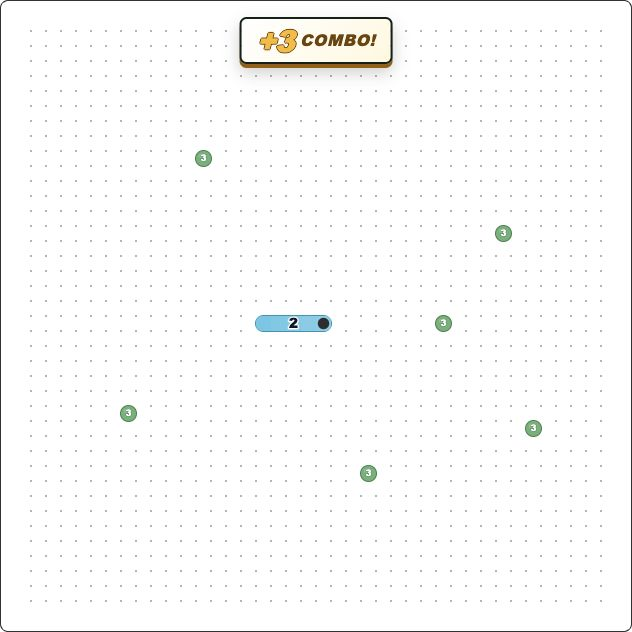
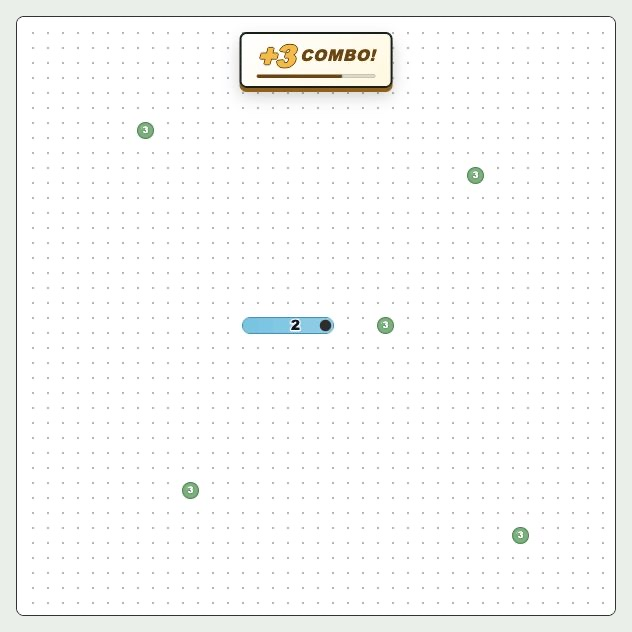
Integrate countdown into combo callout

diff --git a/client/web/tests/e2e/specs/planned-websocket-drain.spec.js b/client/web/tests/e2e/specs/planned-websocket-drain.spec.js
@@ -2066,16 +2066,33 @@ test('Boost fuel instrument keeps the Snaketron hierarchy across charge states',
   }
 });
 
-test('Combo callout stays hidden between chains and re-pops for every pickup', async ({ page }) => {
+test('Combo callout meter drains and re-pops for every pickup', async ({ page }) => {
   await page.setViewportSize({ width: 900, height: 900 });
   const socketIndex = await establishActiveGame(page, comboSnapshot(10, 5, 0, 0));
   const callout = page.getByTestId('combo-callout');
   const burst = page.getByTestId('combo-callout-burst');
+  const meter = page.getByTestId('combo-callout-meter');
+  const meterFill = page.getByTestId('combo-callout-meter-fill');
   const announcement = page.getByTestId('combo-callout-announcement');
+  const readMeterGeometry = () => meter.evaluate((track) => {
+    const fill = track.querySelector('[data-testid="combo-callout-meter-fill"]');
+    if (!fill) throw new Error('Combo meter fill is missing');
+    const trackRect = track.getBoundingClientRect();
+    const fillRect = fill.getBoundingClientRect();
+    return {
+      modelRatio: Number(fill.getAttribute('data-fill-ratio')),
+      renderedRatio: fillRect.width / trackRect.width,
+      leftDelta: Math.abs(fillRect.left - trackRect.left),
+      rightGap: trackRect.right - fillRect.right,
+      trackWidth: trackRect.width,
+    };
+  });
 
   await expect(callout).toHaveCount(1);
   await expect(callout).toHaveAttribute('data-active', 'false');
   await expect(burst).toHaveCount(0);
+  await expect(meter).toHaveCount(0);
+  await expect(meterFill).toHaveCount(0);
 
   await emitServerMessage(
     page,
@@ -2086,13 +2103,35 @@ test('Combo callout stays hidden between chains and re-pops for every pickup', a
   await expect(burst).toHaveText(/\+2\s*Combo!/i);
   await expect(burst).toHaveAttribute('data-animation-key', '42:1');
   await expect(announcement).toHaveText('Combo active; next food is worth 2 points');
+  await expect(meter).toBeVisible();
+  await expect(meterFill).toHaveCSS('transform-origin', /^0px /);
+  const fullMeter = await readMeterGeometry();
+  expect(fullMeter.modelRatio).toBeGreaterThan(0);
+  expect(Math.abs(fullMeter.renderedRatio - fullMeter.modelRatio)).toBeLessThan(0.03);
+  expect(fullMeter.leftDelta).toBeLessThanOrEqual(1);
   const buildingBurst = await burst.elementHandle();
   if (!buildingBurst) throw new Error('building Combo burst is missing');
+
+  // Drive the authoritative timer directly instead of sleeping against the
+  // production one-second window. The right edge retreats while the left edge
+  // stays anchored, making this deterministic even on a busy CI runner.
+  await emitServerMessage(
+    page,
+    socketIndex,
+    comboSnapshot(12, 7, 1, COMBO_CALLOUT_TEST_WINDOW_MS / 2),
+  );
+  await expect.poll(async () => {
+    const current = await readMeterGeometry();
+    return current.modelRatio < fullMeter.modelRatio - 0.25
+      && Math.abs(current.renderedRatio - current.modelRatio) < 0.03
+      && current.leftDelta <= 1
+      && current.rightGap > current.trackWidth * 0.2;
+  }).toBe(true);
 
   await emitServerMessage(
     page,
     socketIndex,
-    comboSnapshot(12, 7, 2, COMBO_CALLOUT_TEST_WINDOW_MS),
+    comboSnapshot(13, 8, 2, COMBO_CALLOUT_TEST_WINDOW_MS),
   );
   await expect(burst).toHaveText(/\+3\s*Combo!/i);
   await expect(burst).toHaveAttribute('data-animation-key', '42:2');
@@ -2109,13 +2148,16 @@ test('Combo callout stays hidden between chains and re-pops for every pickup', a
   await emitServerMessage(
     page,
     socketIndex,
-    comboSnapshot(13, 8, 3, COMBO_CALLOUT_TEST_WINDOW_MS),
+    comboSnapshot(14, 9, 3, COMBO_CALLOUT_TEST_WINDOW_MS),
   );
   await expect(burst).toHaveText(/\+3\s*Combo!/i);
   await expect(burst).toHaveAttribute('data-animation-key', '42:3');
   expect(await firstMaxBurst.evaluate((element) => element.isConnected)).toBe(false);
 
-  await emitServerMessage(page, socketIndex, comboSnapshot(14, 9, 0, 0));
+  await page.emulateMedia({ reducedMotion: 'reduce' });
+  await expect(meter).toBeHidden();
+
+  await emitServerMessage(page, socketIndex, comboSnapshot(15, 10, 0, 0));
   await expect(callout).toHaveAttribute('data-active', 'false');
   await expect(burst).toHaveCount(0);
   await expect(announcement).toHaveText('');

diff --git a/client/web/tests/unit/comboHud.test.ts b/client/web/tests/unit/comboHud.test.ts
@@ -19,11 +19,16 @@ test('combo callout announces +2 after the first food', () => {
   const finalSlice = buildComboHudView(config, snake(1, 1));
 
   assert.equal(full.active, true);
+  assert.equal(full.fillRatio, 1);
   assert.equal(full.nextFoodValue, 2);
   assert.equal(full.nextLabel, '+2 Combo!');
   assert.equal(full.tone, 'building');
   assert.equal(half.active, true);
+  assert.equal(half.fillRatio, 0.5);
   assert.equal(finalSlice.active, true);
+  assert.equal(finalSlice.fillRatio, 0.001);
+  assert.equal(full.ariaValueText, half.ariaValueText);
+  assert.equal(half.ariaValueText, finalSlice.ariaValueText);
   assert.match(half.ariaValueText, /next food is worth 2 points/);
 });
 
@@ -41,6 +46,7 @@ test('expired and dead snakes produce no visible callout text', () => {
   for (const localSnake of [snake(0, 0), snake(2, 0), snake(2, 900, false)]) {
     const hud = buildComboHudView(config, localSnake);
     assert.equal(hud.active, false);
+    assert.equal(hud.fillRatio, 0);
     assert.equal(hud.nextFoodValue, 1);
     assert.equal(hud.nextLabel, '');
     assert.equal(hud.tone, 'idle');
@@ -55,6 +61,7 @@ test('custom combo windows are read from the snapshot', () => {
   );
 
   assert.equal(hud.remainingMs, 625);
+  assert.equal(hud.fillRatio, 0.5);
   assert.equal(hud.nextFoodValue, 2);
   assert.equal(hud.nextLabel, '+2 Combo!');
   assert.equal(hud.tone, 'building');
@@ -70,6 +77,7 @@ test('custom combo windows are read from the snapshot', () => {
 test('malformed countdown values are clamped instead of breaking the callout', () => {
   const overfull = buildComboHudView(config, snake(1, 5000));
   assert.equal(overfull.remainingMs, 1000);
+  assert.equal(overfull.fillRatio, 1);
   assert.equal(overfull.active, true);
 
   const invalid = buildComboHudView(
@@ -77,6 +85,7 @@ test('malformed countdown values are clamped instead of breaking the callout', (
     snake(Number.NaN, Number.NEGATIVE_INFINITY),
   );
   assert.equal(invalid.active, false);
+  assert.equal(invalid.fillRatio, 0);
   assert.equal(invalid.nextFoodValue, 1);
   assert.equal(invalid.nextLabel, '');
 });

diff --git a/client/web/components/GameArena.css b/client/web/components/GameArena.css
@@ -48,9 +48,11 @@
   --combo-callout-accent: #78ad7a;
   --combo-callout-edge: #315335;
   --combo-callout-shadow: #315335;
-  display: flex;
+  display: grid;
+  grid-template-columns: auto auto;
   align-items: center;
-  gap: clamp(4px, 0.7vw, 7px);
+  column-gap: clamp(4px, 0.7vw, 7px);
+  row-gap: clamp(3px, 0.5vw, 5px);
   padding: clamp(5px, 0.8vw, 8px) clamp(9px, 1.6vw, 15px);
   border: 2px solid #17231b;
   border-radius: 7px;
@@ -93,6 +95,28 @@
 .game-combo-callout__label {
   font-size: clamp(11px, 2.1vw, 16px);
   letter-spacing: 0.035em;
+}
+
+.game-combo-callout__meter {
+  grid-column: 1 / -1;
+  display: block;
+  height: 4px;
+  overflow: hidden;
+  border-radius: 999px;
+  background: rgb(23 35 27 / 14%);
+  box-shadow: inset 0 0 0 1px rgb(23 35 27 / 12%);
+}
+
+.game-combo-callout__meter-fill {
+  display: block;
+  width: 100%;
+  height: 100%;
+  border-radius: inherit;
+  background: var(--combo-callout-edge);
+  box-shadow: inset 0 1px rgb(255 255 255 / 48%);
+  transform-origin: left center;
+  transition: transform 50ms linear;
+  will-change: transform;
 }
 
 @keyframes combo-callout-pop {
@@ -756,6 +780,7 @@
 
   .game-combo-callout__burst {
     padding: 4px 8px;
+    row-gap: 3px;
   }
 
   .game-idle-warning {
@@ -948,6 +973,10 @@
     animation: none;
     transition: none;
   }
+
+  .game-combo-callout__meter {
+    display: none;
+  }
 }
 
 @media (forced-colors: active) {
@@ -960,6 +989,17 @@
     box-shadow: none;
     text-shadow: none;
     forced-color-adjust: auto;
+  }
+
+  .game-combo-callout__meter {
+    border: 1px solid CanvasText;
+    background: Canvas;
+    box-shadow: none;
+  }
+
+  .game-combo-callout__meter-fill {
+    background: Highlight;
+    box-shadow: none;
   }
 
   .game-idle-warning,

diff --git a/client/web/utils/comboHud.ts b/client/web/utils/comboHud.ts
@@ -20,6 +20,7 @@ export type ComboHudTone = 'idle' | 'building' | 'maxed';
 export interface ComboHudView {
   active: boolean;
   remainingMs: number;
+  fillRatio: number;
   nextFoodValue: number;
   nextLabel: string;
   tone: ComboHudTone;
@@ -44,6 +45,7 @@ export function buildComboHudView(
   const rawRemainingMs = finiteNonNegative(snake.combo.remaining_ms);
   const remainingMs = Math.min(windowMs, rawRemainingMs);
   const active = snake.is_alive && windowMs > 0 && remainingMs > 0;
+  const fillRatio = active ? remainingMs / windowMs : 0;
   const chainCount = Math.floor(finiteNonNegative(snake.combo.chain_count));
   const nextFoodValue = active
     ? Math.min(maxFoodValue, chainCount + 1)
@@ -60,6 +62,7 @@ export function buildComboHudView(
   return {
     active,
     remainingMs,
+    fillRatio,
     nextFoodValue,
     nextLabel,
     tone,

diff --git a/client/web/components/ComboCallout.tsx b/client/web/components/ComboCallout.tsx
@@ -39,6 +39,18 @@ const ComboCallout: React.FC<ComboCalloutProps> = ({
       >
         <span className="game-combo-callout__value">+{hud.nextFoodValue}</span>
         <span className="game-combo-callout__label">Combo!</span>
+        <span
+          className="game-combo-callout__meter"
+          data-testid="combo-callout-meter"
+          aria-hidden="true"
+        >
+          <span
+            className="game-combo-callout__meter-fill"
+            data-testid="combo-callout-meter-fill"
+            data-fill-ratio={hud.fillRatio.toFixed(3)}
+            style={{ transform: `scaleX(${hud.fillRatio})` }}
+          />
+        </span>
       </strong>
     )}
   </div>

diff --git a/client/src/render.rs b/client/src/render.rs
@@ -1485,8 +1485,8 @@ struct CarriedFoodLabel {
 // ---------------------------------------------------------------------------
 
 const FOOD_VALUE_LABEL_MIN_PX: f64 = 5.0;
-const FOOD_VALUE_LABEL_MAX_PX: f64 = 9.0;
-const FOOD_VALUE_LABEL_SIZE_RATIO: f64 = 0.68;
+const FOOD_VALUE_LABEL_MAX_PX: f64 = 10.0;
+const FOOD_VALUE_LABEL_SIZE_RATIO: f64 = 0.76;
 const FOOD_VALUE_LABEL_ADVANCE_EM: f64 = 0.68;
 const FOOD_VALUE_LABEL_HALO_RATIO: f64 = 0.13;
 const FOOD_VALUE_LABEL_HALO_MIN_PX: f64 = 0.55;
@@ -2955,6 +2955,9 @@ mod tests {
                 "food value at cell {cell_size} overflows without hitting the floor"
             );
         }
+
+        assert!((food_value_label_layout(10.0, 1).font_px - 7.6).abs() < 1e-9);
+        assert_eq!(food_value_label_layout(15.0, 1).font_px, 10.0);
 
         let font = food_value_label_font(7.0);
         assert!(font.starts_with("900 7px "));
